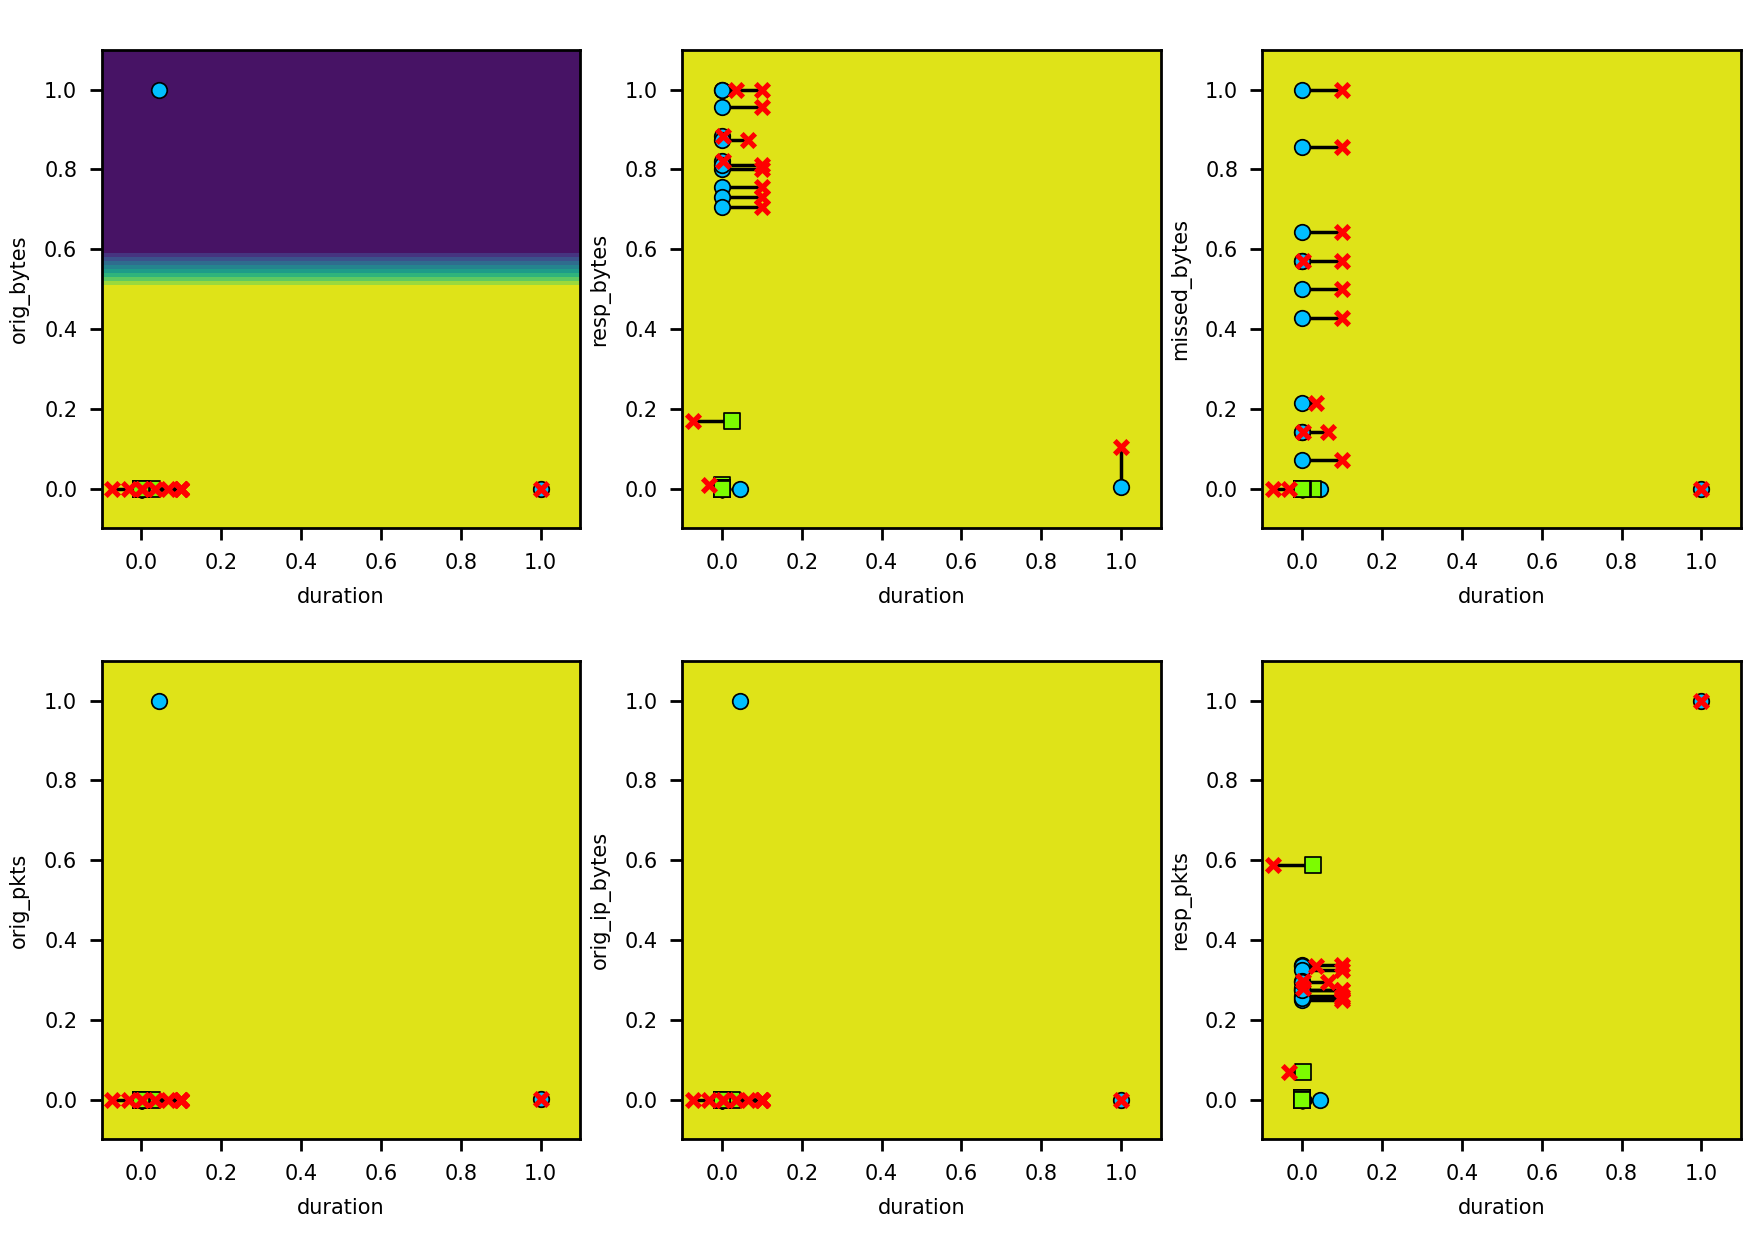
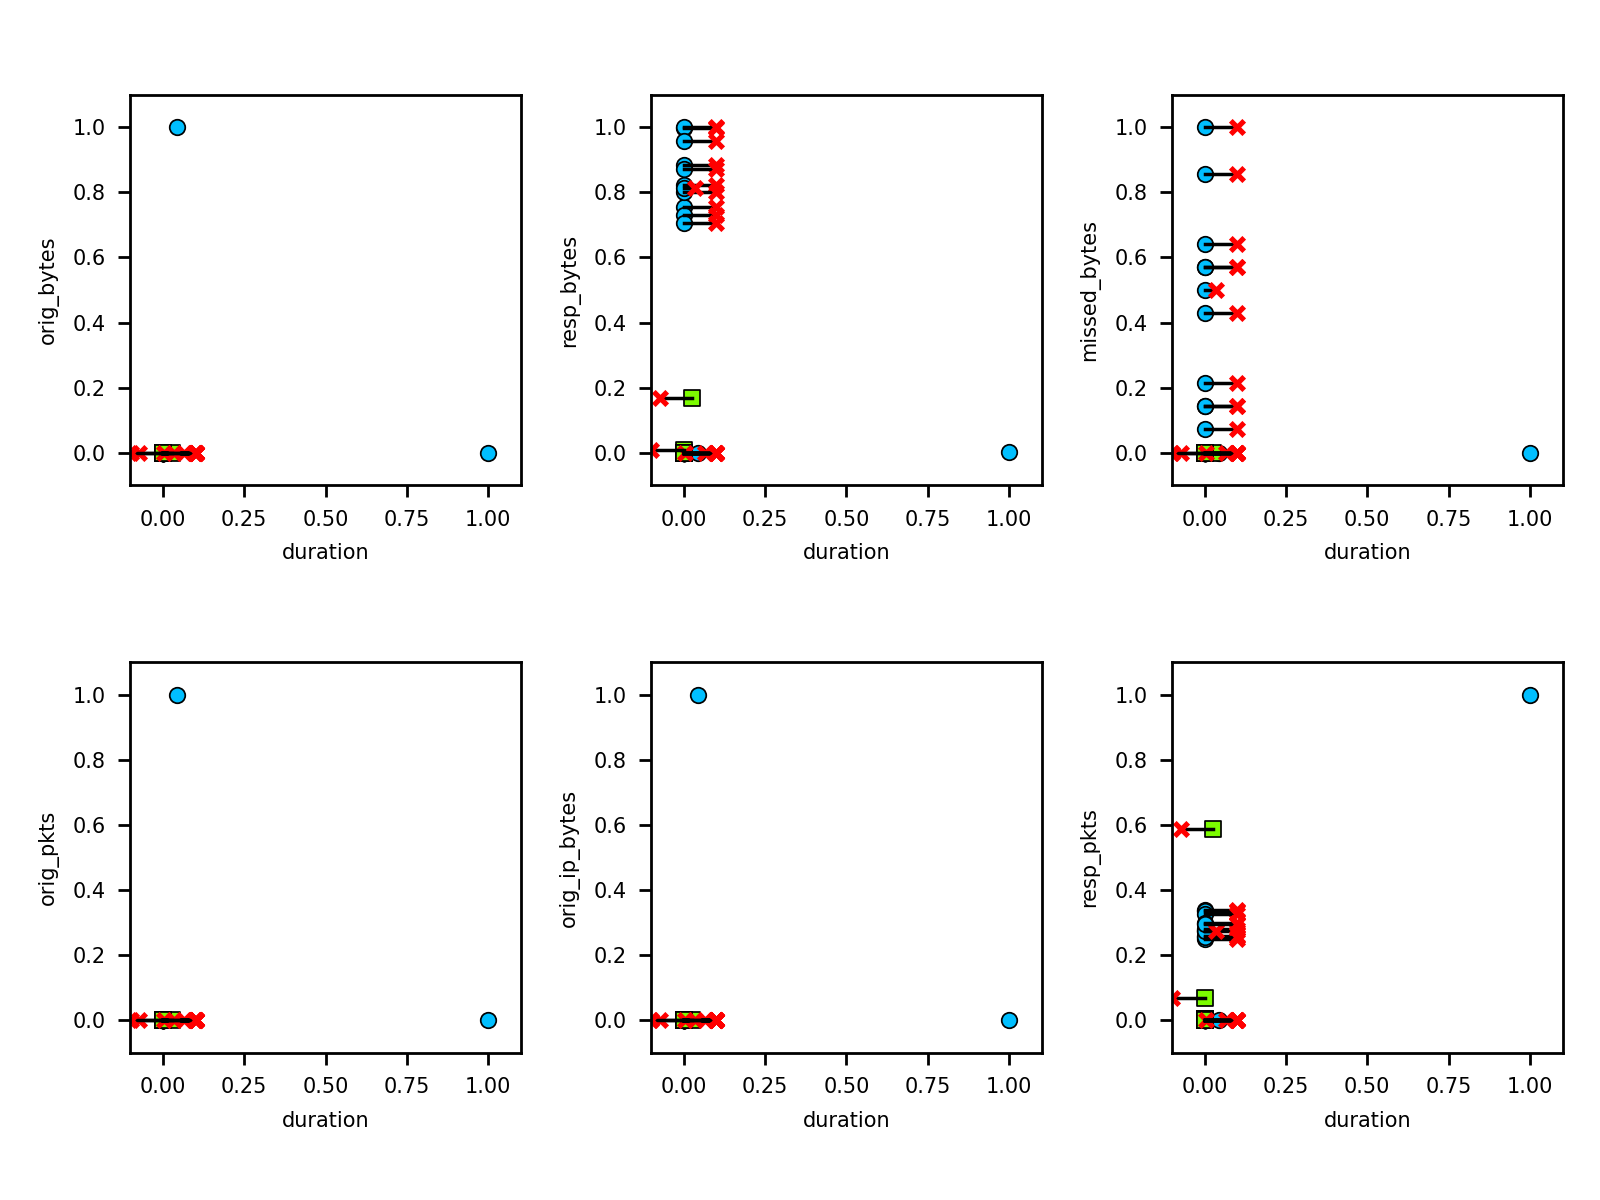
refactor adv_iot

diff --git a/src/adv_iot.py b/src/adv_iot.py
@@ -106,97 +106,68 @@ def adv_examples(model, x_train, y_train, x_train_adv):
         if ori_pred != adv_pred:
             adv_success.append(i)
 
-    print('Train scores:', c("%.4f" % ori_score))
-    print('Adv scores:  ', c("%.4f" % adv_score))
-    print('# Evasions:  ', c(len(adv_success)))
+    print('Train scores '.ljust(20, '-'), c("%.4f" % ori_score))
+    print('Adv scores '.ljust(20, '-'), c("%.4f" % adv_score))
+    print('# Evasions '.ljust(20, '-'), c(len(adv_success)))
     return np.array(adv_success)
 
 
-def plot(model, class_labels, evasions, attr, *data):
+def plot(evasions, attr, *data):
     """Visualize the adversarial attack results"""
 
     (x_train, y_train, x_train_adv) = data
+    class_labels = list(set(y_train))
 
-    # range for contour plot
-    levels, h = [x / 10. for x in range(0, 11)], .1
     colors = ['deepskyblue', 'lawngreen']
     markers = ['o', 's']
-
-    avg_sample = np.mean(x_train, axis=0)
-
-    non_bin_attrs = []
-    for feat in range(len(x_train[0])):
-        if len(list(set(x_train[:, feat]))) > 2:
-            non_bin_attrs.append(feat)
-    attr_pairs = list(combinations(non_bin_attrs, 2))
-
     rows, cols = 2, 3
-    fig_count = len(attr_pairs) // (rows * cols)
+    num_sub_plots = rows * cols
+    diff_props = {'c': 'black', 'zorder': 2, 'lw': 1}
+    class_props = {'edgecolor': 'black', 'lw': .5, 's': 20, 'zorder': 2}
+    adv_props = {'zorder': 2, 'c': 'red', 'marker': 'x', 's': 15}
+    x_min, y_min, x_max, y_max = -0.1, -0.1, 1.1, 1.1
+
+    non_binary_attrs = [feat for feat in range(len(x_train[0])) if
+                        len(list(set(x_train[:, feat]))) > 2]
+    attr_pairs = list(combinations(non_binary_attrs, 2))
+    fig_count = len(attr_pairs) // num_sub_plots
 
     # generate plots
     for f in range(fig_count):
-        fig, axs = plt.subplots(
-            figsize=[7., 5],
-            nrows=rows, ncols=cols, dpi=250,
-            constrained_layout=True)
+        fig, axs = plt.subplots(nrows=rows, ncols=cols, dpi=250)
         axs = axs.flatten()
 
-        for p in range(rows * cols):
-            f1, f2 = attr_pairs[(f * rows * cols) + p]
-            x_min, x_max = -0.1, 1.1
-            y_min, y_max = x_min, x_max
+        for subplot_index in range(num_sub_plots):
 
-            axs[p].set_xlim((x_min, x_max))
-            axs[p].set_ylim((y_min, y_max))
-            axs[p].set_xlabel(attr[f1])
-            axs[p].set_ylabel(attr[f2])
-            axs[p].set_aspect('equal', adjustable='box')
-
-            for j in evasions:
-                # Plot difference vectors
-                axs[p].plot(
-                    [x_train[j:j + 1, f1], x_train_adv[j:j + 1, f1]],
-                    [x_train[j:j + 1, f2], x_train_adv[j:j + 1, f2]],
-                    c='black', zorder=2, lw=1)
+            ax = axs[subplot_index]
+            f1, f2 = attr_pairs[(f * num_sub_plots) + subplot_index]
+            ax.set_xlim((x_min, x_max))
+            ax.set_ylim((y_min, y_max))
+            ax.set_xlabel(attr[f1])
+            ax.set_ylabel(attr[f2])
+            ax.set_aspect('equal', adjustable='box')
 
             # Plot original samples
             for cl in range(len(class_labels)):
-                axs[p].scatter(
-                    x_train[y_train == cl][:, f1],
-                    x_train[y_train == cl][:, f2],
-                    edgecolor='black', linewidth=.5,
-                    s=20, zorder=2, c=colors[cl],
-                    marker=markers[cl])
+                x_f1 = x_train[y_train == cl][:, f1]
+                x_f2 = x_train[y_train == cl][:, f2]
+                style = {'c': colors[cl], 'marker': markers[cl]}
+                ax.scatter(x_f1, x_f2, **class_props, **style)
 
+            # Plot adversarial examples and difference vectors
             for j in evasions:
-                # Plot adversarial examples
-                axs[p].scatter(
-                    x_train_adv[j:j + 1, f1],
-                    x_train_adv[j:j + 1, f2],
-                    zorder=2, c='red', marker='x', s=15)
+                xt_f1 = x_train[j:j + 1, f1]
+                xt_f2 = x_train[j:j + 1, f2]
+                ad_f1 = x_train_adv[j:j + 1, f1]
+                ad_f2 = x_train_adv[j:j + 1, f2]
+                ax.plot([xt_f1, ad_f1], [xt_f2, ad_f2], **diff_props)
+                ax.scatter(ad_f1, ad_f2, **adv_props)
 
-            # Show predicted probability as contour plot
-            xx, yy = np.meshgrid(
-                np.arange(x_min, x_max, h),
-                np.arange(y_min, y_max, h))
-
-            pred_array = np.tile(avg_sample, (len(xx.ravel()), 1))
-            pred_array[:, f1] = xx.ravel()
-            pred_array[:, f2] = yy.ravel()
-
-            # plot class probabilities as contour plot
-            for i, class_label in enumerate(class_labels):
-                z_prob = model.predict_proba(pred_array)[:, i]
-                axs[p].contourf(
-                    xx, yy, z_prob.reshape(xx.shape),
-                    levels=levels[:], vmin=0, vmax=1)
-
-        fig.tight_layout(pad=.25)
-        plt.savefig(f'{IMAGE_NAME}_{f + 1}.png', pad_inces=.5)
+        fig.tight_layout()
+        plt.savefig(f'{IMAGE_NAME}_{f + 1}.png')
 
 
 if __name__ == '__main__':
     cls, data, attr = adversarial_iot()
     evasions = adv_examples(cls, *data)
-    labels = list(set(data[1]))
-    plot(cls, labels, evasions, attr, *data)
+    plot(evasions, attr, *data)
